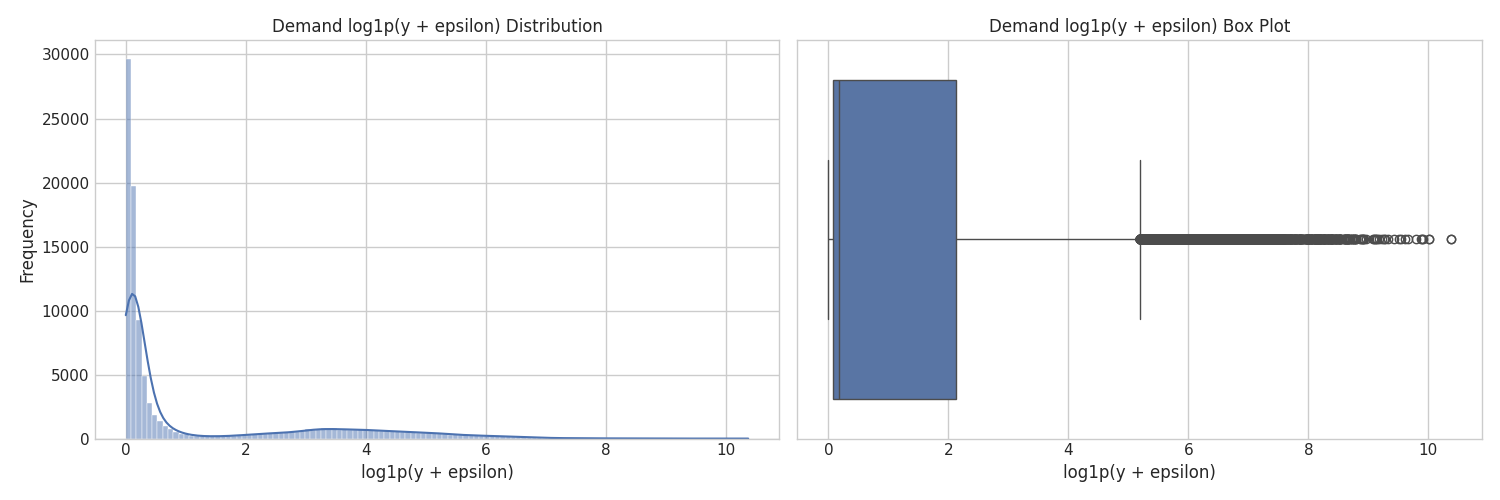
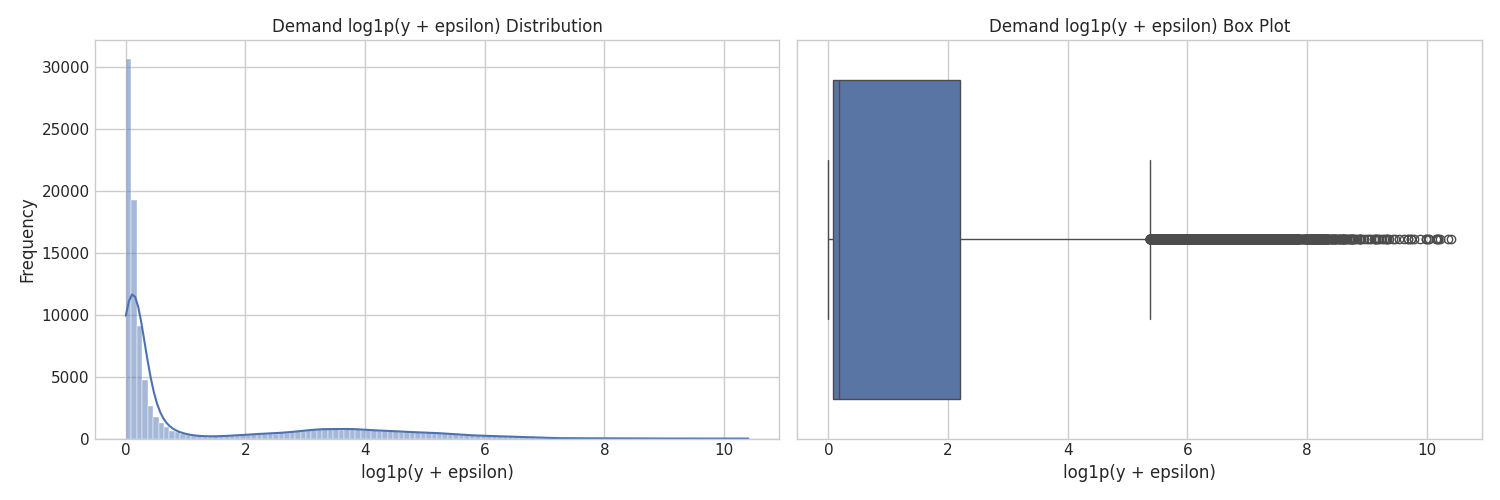
✨ feat: 更新 EDA 脚本，新增对数据集的需求分析功能，优化绘图流程，修复绘图保存逻辑，更新数据文件路径以反映最新数据结构，增强日志记录以确保分析过程清晰可追踪

diff --git a/src/electricitydemand/eda/analyze_relationships.py b/src/electricitydemand/eda/analyze_relationships.py
@@ -26,6 +26,7 @@ def merge_demand_metadata_sample(
     metadata_cols: List[str],
     sample_frac: float = 0.001,
     random_state: int = 42,
+    spark: SparkSession = None,
 ) -> Optional[pd.DataFrame]:
     """
     Samples the Spark demand data, converts sample to Pandas,
@@ -37,6 +38,7 @@ def merge_demand_metadata_sample(
         metadata_cols: List of metadata columns to merge.
         sample_frac: Fraction of demand data to sample.
         random_state: Random seed for sampling.
+        spark: SparkSession (optional, not used directly in plotting after merge).
 
     Returns:
         A Pandas DataFrame containing the sampled and merged data, or None if an error occurs or data is empty.
@@ -194,12 +196,12 @@ def analyze_demand_vs_metadata(sdf_demand: DataFrame, pdf_metadata: pd.DataFrame
             ax_orig.set_ylabel('Electricity Demand (y) in kWh')
             plt.xticks(rotation=30, ha='right')  # Rotate labels slightly
             plt.tight_layout()
-            save_plot(
-                fig_orig, f'demand_vs_{target_col}_boxplot_orig.png', plots_dir)
+            fig = plt.gcf()
+            save_plot(fig, plots_dir, f'demand_vs_{target_col}_boxplot_orig.png')
         except Exception as plot_orig_e:
             logger.exception(
                 f"Error plotting original scale boxplot for {target_col}: {plot_orig_e}")
-            plt.close(fig_orig)
+            plt.close(fig)
 
         # --- Log scale ---
         try:
@@ -238,8 +240,8 @@ def analyze_demand_vs_metadata(sdf_demand: DataFrame, pdf_metadata: pd.DataFrame
                 ax_log.set_ylabel('log1p(Electricity Demand (y) + epsilon)')
                 plt.xticks(rotation=30, ha='right')  # Rotate labels slightly
                 plt.tight_layout()
-                save_plot(
-                    fig_log, f'demand_vs_{target_col}_boxplot_log1p.png', plots_dir)
+                fig_log = plt.gcf()
+                save_plot(fig_log, plots_dir, f'demand_vs_{target_col}_boxplot_log1p.png')
         except Exception as plot_log_e:
             logger.exception(
                 f"Error plotting log scale boxplot for {target_col}: {plot_log_e}")
@@ -333,12 +335,12 @@ def analyze_demand_vs_location(sdf_demand: DataFrame, pdf_metadata: pd.DataFrame
             ax_orig.set_ylabel('Electricity Demand (y) in kWh')
             plt.xticks(rotation=45, ha='right')
             plt.tight_layout()
-            save_plot(
-                fig_orig, f'demand_vs_top{top_n}_{target_col}_boxplot_orig.png', plots_dir)
+            fig = plt.gcf()
+            save_plot(fig, plots_dir, f'demand_vs_top{top_n}_{target_col}_boxplot_orig.png')
         except Exception as plot_orig_e:
             logger.exception(
                 f"Error plotting original scale boxplot for {target_col}: {plot_orig_e}")
-            plt.close(fig_orig)
+            plt.close(fig)
 
         # --- Log scale ---
         try:
@@ -375,8 +377,8 @@ def analyze_demand_vs_location(sdf_demand: DataFrame, pdf_metadata: pd.DataFrame
                 ax_log.set_ylabel('log1p(Electricity Demand (y) + epsilon)')
                 plt.xticks(rotation=45, ha='right')
                 plt.tight_layout()
-                save_plot(
-                    fig_log, f'demand_vs_top{top_n}_{target_col}_boxplot_log1p.png', plots_dir)
+                fig_log = plt.gcf()
+                save_plot(fig_log, plots_dir, f'demand_vs_top{top_n}_{target_col}_boxplot_log1p.png')
         except Exception as plot_log_e:
             logger.exception(
                 f"Error plotting log scale boxplot for {target_col}: {plot_log_e}")
@@ -552,3 +554,99 @@ def analyze_demand_vs_weather(
         end_time = time.time()
         logger.info(
             f"--- Demand vs Weather analysis took {end_time - start_time:.2f} seconds ---")
+
+def analyze_demand_vs_dataset(
+    sdf_demand: DataFrame,
+    pdf_metadata: pd.DataFrame,
+    plots_dir: Path,
+    sample_frac: float = 0.001, # 使用与之前分析一致的抽样比例
+    spark: SparkSession = None # Keep spark=None if not directly needed after merge
+):
+    """
+    Analyzes and visualizes the relationship between electricity demand (y)
+    and the source dataset using Spark sampling and Pandas plotting.
+
+    Args:
+        sdf_demand: Spark DataFrame containing 'unique_id' and 'y'.
+        pdf_metadata: Pandas DataFrame containing 'unique_id' (as index) and 'dataset'.
+        plots_dir: Path to save the plots.
+        sample_frac: Fraction of demand data to sample for analysis.
+        spark: SparkSession (optional, not used directly in plotting after merge).
+    """
+    target_col = 'dataset'
+    logger.info(f"--- Starting analysis of Demand vs {target_col} relationship (sample fraction: {sample_frac*100:.1f}%) ---")
+    start_time = time.time()
+
+    # 1. Merge sample demand with metadata dataset column
+    merged_sample_df = merge_demand_metadata_sample(
+        sdf_demand,
+        pdf_metadata,
+        [target_col], # Only need the dataset column
+        sample_frac=sample_frac,
+        spark=spark # Pass spark if needed by merge function internally
+    )
+
+    if merged_sample_df is None or merged_sample_df.empty:
+        logger.warning(f"No merged data available for Demand vs {target_col} analysis. Skipping.")
+        return
+
+    # Replace potential None values in target_col if necessary (though unlikely for dataset)
+    if merged_sample_df[target_col].isnull().any():
+        logger.warning(f"Found missing values in '{target_col}'. Filling with 'Missing'.")
+        merged_sample_df[target_col] = merged_sample_df[target_col].fillna('Missing')
+
+
+    # 2. Log descriptive statistics per dataset
+    try:
+        stats_per_dataset = merged_sample_df.groupby(target_col)['y'].describe()
+        logger.info(f"'y' descriptive statistics grouped by {target_col} (based on {sample_frac*100:.1f}% sample):")
+        # Use context manager for better formatting
+        with pd.option_context('display.max_rows', None, 'display.max_columns', None, 'display.width', 1000):
+             logger.info(f"\n{stats_per_dataset}")
+
+    except Exception as e:
+        logger.exception(f"Error calculating descriptive stats for y by {target_col}: {e}")
+
+
+    # 3. Plotting (similar to demand vs building class)
+    plot_title_prefix = f"Demand (y) vs {target_col.capitalize()}"
+    plot_filename_prefix = f"demand_vs_{target_col}"
+
+    logger.info(f"Plotting {plot_title_prefix} box plot...")
+    # Use a copy to avoid SettingWithCopyWarning if modifying y_log1p in place later
+    plot_df = merged_sample_df[[target_col, 'y']].copy()
+
+    plt.figure(figsize=(12, 6))
+    sns.boxplot(data=plot_df, x=target_col, y='y', showfliers=False) # Hide outliers for overview
+    plt.title(f"{plot_title_prefix} (Original Scale, Outliers Hidden)")
+    plt.xlabel(target_col.capitalize())
+    plt.ylabel("Demand (y) in kWh")
+    plt.xticks(rotation=45, ha='right')
+    plt.tight_layout()
+    fig1 = plt.gcf()
+    save_plot(fig1, plots_dir, f"{plot_filename_prefix}_boxplot_orig_no_outliers.png")
+    plt.close(fig1)
+
+    # Log scale plot
+    plot_df['y_log1p'] = np.log1p(plot_df['y'])
+    # Check for infinite values after log transform if y can be negative (shouldn't be an issue here)
+    if np.isinf(plot_df['y_log1p']).any():
+        original_rows = len(plot_df)
+        plot_df = plot_df[np.isfinite(plot_df['y_log1p'])]
+        logger.warning(f"Removed {original_rows - len(plot_df)} rows with non-finite log1p(y) values for plotting.")
+
+
+    plt.figure(figsize=(12, 6))
+    sns.boxplot(data=plot_df, x=target_col, y='y_log1p', showfliers=True) # Show outliers on log scale
+    plt.title(f"{plot_title_prefix} (Log1p Scale)")
+    plt.xlabel(target_col.capitalize())
+    plt.ylabel("Log1p(Demand + 1)")
+    plt.xticks(rotation=45, ha='right')
+    plt.tight_layout()
+    fig2 = plt.gcf()
+    save_plot(fig2, plots_dir, f"{plot_filename_prefix}_boxplot_log1p.png")
+    plt.close(fig2)
+
+
+    end_time = time.time()
+    logger.info(f"--- Demand vs {target_col} analysis took {end_time - start_time:.2f} seconds ---")

diff --git a/src/electricitydemand/eda/analyze_weather.py b/src/electricitydemand/eda/analyze_weather.py
@@ -42,14 +42,17 @@ def analyze_weather_numerical(sdf_weather: DataFrame, columns_to_analyze=None, p
     if columns_to_analyze is None:
         # 根据数据集 README 扩展列
         columns_to_analyze = [
-            'temperature_2m', 'relative_humidity_2m', 'dew_point_2m', 'apparent_temperature',
-            'precipitation', 'rain', 'snowfall', 'snow_depth', 'pressure_msl',
-            'surface_pressure', 'cloud_cover', 'cloud_cover_low', 'cloud_cover_mid',
-            'cloud_cover_high', 'et0_fao_evapotranspiration', 'vapour_pressure_deficit',
-            'wind_speed_10m', 'wind_direction_10m', 'wind_gusts_10m',
-            # Typo in original name 'tepmerature' kept if that's the column name
-            'soil_tepmerature_0_to_7cm', 'soil_moisture_0_to_7cm',
-            'direct_radiation', 'diffuse_radiation', 'sunshine_duration'
+            "temperature_2m", "relative_humidity_2m", "dew_point_2m",
+            "apparent_temperature", "precipitation", "rain", "snowfall", "snow_depth",
+            "pressure_msl", "surface_pressure", "cloud_cover", "cloud_cover_low",
+            "cloud_cover_mid", "cloud_cover_high", "et0_fao_evapotranspiration",
+            "vapour_pressure_deficit", "wind_speed_10m", "wind_direction_10m",
+            "wind_gusts_10m",
+            "soil_temperature_0_to_7cm",
+            "soil_temperature_7_to_28cm",
+            "soil_moisture_0_to_7cm", "soil_moisture_7_to_28cm",
+            "sunshine_duration", "shortwave_radiation", "direct_radiation",
+            "diffuse_radiation", "direct_normal_irradiance", "terrestrial_radiation"
         ]
     logger.info(f"--- 开始分析 Weather 数值特征分布 (Spark) ---")
     logger.debug(f"分析的列: {', '.join(columns_to_analyze)}")
@@ -252,14 +255,15 @@ def analyze_weather_correlation(sdf_weather: DataFrame, plots_dir: str):
         # Exclude IDs, categorical codes, and potentially redundant features if needed
         # Also exclude columns that might be all null or constant after filtering
         numerical_cols = [
-            'temperature_2m', 'relative_humidity_2m', 'dew_point_2m',
-            'apparent_temperature', 'precipitation', 'rain', 'snowfall',
-            'snow_depth', 'pressure_msl', 'surface_pressure', 'cloud_cover',
-            'cloud_cover_low', 'cloud_cover_mid', 'cloud_cover_high',
-            'et0_fao_evapotranspiration', 'vapour_pressure_deficit',
-            'wind_speed_10m', 'wind_direction_10m', 'wind_gusts_10m',
-            'soil_tepmerature_0_to_7cm', 'soil_moisture_0_to_7cm',
-            'sunshine_duration', 'direct_radiation', 'diffuse_radiation'
+            "temperature_2m", "relative_humidity_2m", "dew_point_2m",
+            "apparent_temperature", "precipitation", "rain", "snowfall",
+            "snow_depth", "pressure_msl", "surface_pressure", "cloud_cover",
+            "cloud_cover_low", "cloud_cover_mid", "cloud_cover_high",
+            "et0_fao_evapotranspiration", "vapour_pressure_deficit",
+            "wind_speed_10m", "wind_direction_10m", "wind_gusts_10m",
+            "soil_temperature_0_to_7cm", "soil_moisture_0_to_7cm",
+            "sunshine_duration", "shortwave_radiation", "direct_radiation",
+            "diffuse_radiation", "direct_normal_irradiance", "terrestrial_radiation"
         ]
 
         # Filter out columns that are not present in the DataFrame

diff --git a/src/electricitydemand/1_run_eda.py b/src/electricitydemand/1_run_eda.py
@@ -77,6 +77,7 @@ try:
         analyze_demand_vs_location,
         analyze_demand_vs_metadata,
         analyze_demand_vs_weather,
+        analyze_demand_vs_dataset
     )
     from electricitydemand.eda.analyze_time import (
         analyze_datetime_features_spark,
@@ -155,7 +156,6 @@ def run_all_eda():
         # --- 步骤 2: 单变量分析  ---
         logger.info("--- 步骤 2: 单变量分析 ---")
         logger.info("--- 开始 Demand 分析 (Spark) ---")
-        # 假设这些函数已适配 Spark 或能处理 Spark DF
         analyze_demand_y_distribution(sdf_demand, plots_dir=plots_dir, sample_frac=0.005)
         analyze_demand_timeseries_sample(sdf_demand, plots_dir=plots_dir, n_samples=3)
         logger.info("--- 完成 Demand 分析 (Spark) ---")
@@ -181,7 +181,6 @@ def run_all_eda():
             raise ValueError("Failed to convert Metadata to Pandas.") # Raise error if conversion fails
 
         if pdf_metadata is not None:
-            # 这部分分析取消注释
             analyze_metadata_categorical(pdf_metadata) # Log counts
             plot_metadata_categorical(pdf_metadata, plots_dir=plots_dir) # Plot distributions
             analyze_metadata_numerical(pdf_metadata, plots_dir=plots_dir) # Analyze/Plot numerical
@@ -214,11 +213,21 @@ def run_all_eda():
             analyze_demand_vs_location(sdf_demand, pdf_metadata, plots_dir=plots_dir, sample_frac=0.001, top_n=5)
             logger.info("--- 完成 Demand vs location 分析 ---")
 
+            # --- Demand vs Metadata (Dataset) ---
+            logger.info("--- 开始 Demand vs dataset 分析 (Spark->Pandas) ---")
+            analyze_demand_vs_dataset(sdf_demand, pdf_metadata, plots_dir=plots_dir, sample_frac=0.001)
+            logger.info("--- 完成 Demand vs dataset 分析 ---")
+
             # --- Demand vs Weather (保持运行) ---
             logger.info(
                 "--- 开始 Demand vs Weather 分析 (Spark Join -> Pandas Collect) ---")
             analyze_demand_vs_weather(
-                sdf_demand, pdf_metadata, sdf_weather, spark, plots_dir, n_sample_ids=50)
+                sdf_demand,
+                pdf_metadata,
+                sdf_weather,
+                spark,
+                plots_dir=plots_dir,
+                n_sample_ids=50)
             logger.info("--- 完成 Demand vs Weather 分析 ---")
         else:
             logger.error("跳过关系分析，因为 Metadata Pandas DataFrame 不可用。") # Should not happen due to earlier check

diff --git a/src/electricitydemand/2_run_preprocessing.py b/src/electricitydemand/2_run_preprocessing.py
@@ -50,7 +50,7 @@ logger.info(f"数据目录：{data_dir}")
 logger.info(f"日志目录：{logs_dir}")
 
 # --- 数据文件路径 ---
-demand_hourly_path = data_dir / "demand_hourly.parquet" # 重采样后的需求数据
+demand_hourly_path = data_dir / "demand_converted.parquet" # 重采样后的需求数据
 metadata_path = data_dir / "metadata.parquet" # 元数据
 weather_path = data_dir / "weather_converted.parquet" # 天气数据
 merged_output_path = data_dir / "merged_data.parquet" # 合并后数据输出路径
